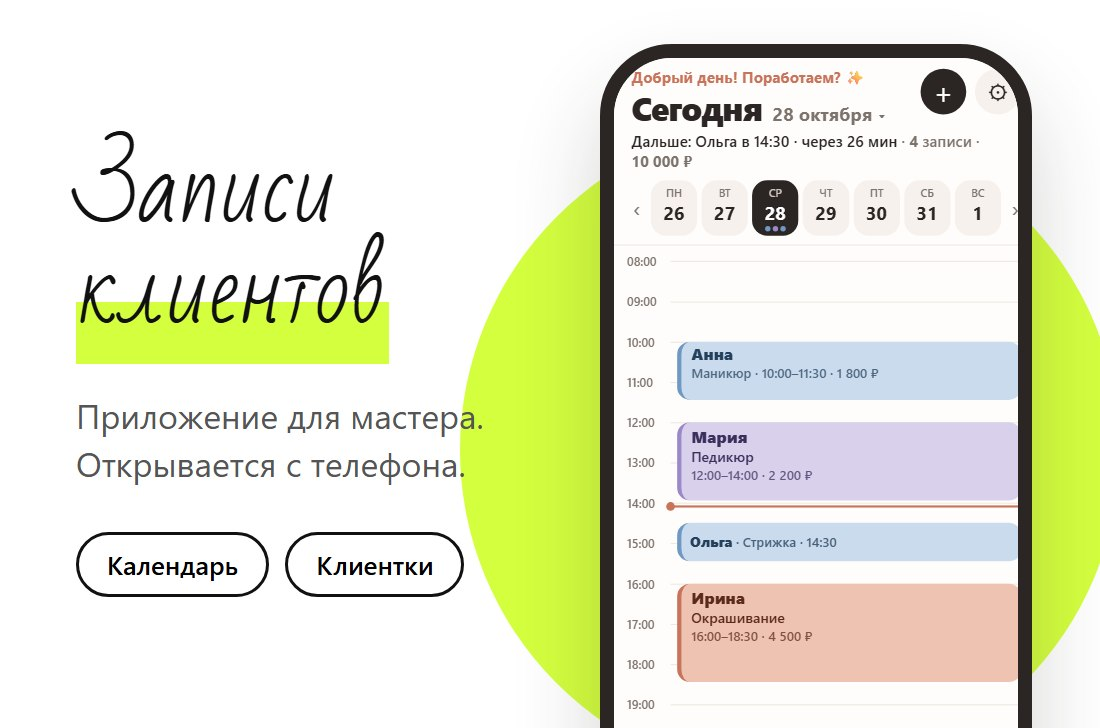
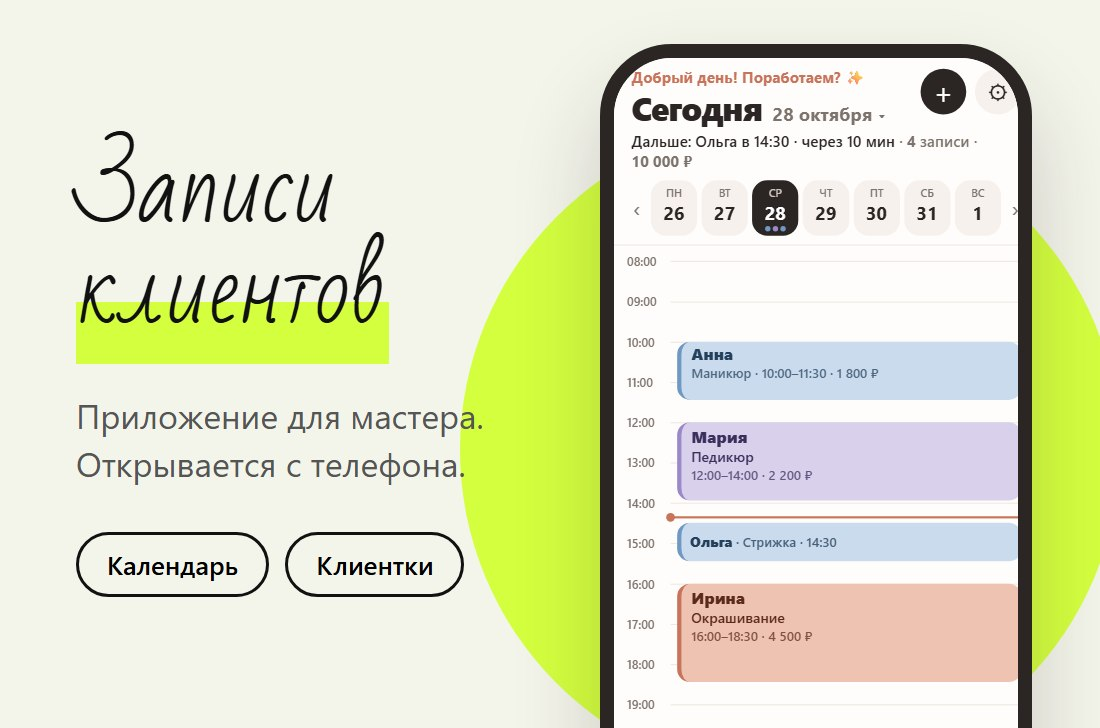
Add files via upload

Changed region(s): [[0.5873, 0.6951, 0.9273, 0.7253], [0.7727, 0.1813, 0.8964, 0.2115]]

diff --git a/index.html b/index.html
@@ -74,8 +74,8 @@ h2{font-family:var(--hand);font-weight:400;font-size:clamp(34px,4.4vw,64px);line
 .tag{display:inline-block;margin:16px 4px 0;font-size:12px;letter-spacing:.2em;text-transform:uppercase;font-weight:600;background:var(--lime);padding:3px 10px;border-radius:999px}
 .work h3{font-size:20px;font-weight:600;margin:10px 4px 2px;line-height:1.25}
 .work a.l{display:inline-flex;align-items:center;min-height:44px;margin:0 4px;font-weight:600;text-decoration:underline;text-decoration-color:var(--lime);text-decoration-thickness:3px;text-underline-offset:5px}
-.works:not(.three){max-width:960px}
-.works.three{grid-template-columns:repeat(3,1fr);max-width:980px}.works.three,.works.three .col{gap:14px}.works.three .work img{border-radius:14px}.works.three .work h3{font-size:14px;margin:6px 2px 0;font-weight:500}
+.works:not(.three){max-width:1400px}
+.works.three{grid-template-columns:repeat(3,1fr);max-width:1400px}.works.three,.works.three .col{gap:14px}.works.three .work img{border-radius:14px}.works.three .work h3{font-size:14px;margin:6px 2px 0;font-weight:500}
 /* спокойно */
 #trust{padding-top:24px;padding-bottom:24px}#trust h2{text-align:center;margin:0 auto 6px;font-size:clamp(30px,3.6vw,46px)}
 .gar{display:grid;grid-template-columns:repeat(3,1fr);gap:14px;margin-top:14px;text-align:center}
@@ -110,6 +110,16 @@ footer{padding:26px var(--pad);font-size:13px;color:var(--soft);display:flex;gap
 a:focus-visible,.btn:focus-visible{outline:3px solid var(--ink);outline-offset:3px;border-radius:8px}
 .btn:focus-visible,.fab:focus-visible{border-radius:999px}
 .srv a:focus-visible,.fab:focus-visible{outline-color:var(--lime)}
+.menu{display:grid;grid-template-columns:1fr 1fr;gap:0 64px;background:#fff;border:2px solid var(--ink);border-radius:30px;padding:36px 40px;max-width:1100px;margin-top:22px}
+.mt{font-family:var(--hand);font-weight:400;font-size:clamp(28px,3vw,38px);line-height:1.1;margin:0 0 18px}
+.mi{margin-bottom:20px}
+.mr{display:flex;align-items:baseline;gap:10px;font-size:18px;font-weight:500}
+.mr b{font-weight:500}
+.mr i{flex:1;min-width:18px;border-bottom:2px dotted rgba(17,17,17,.4);transform:translateY(-5px)}
+.mr span{white-space:nowrap;font-weight:600;background:linear-gradient(transparent 58%,var(--lime) 58%);padding:0 6px}
+.md{font-size:14.5px;color:var(--soft);margin-top:5px;line-height:1.45;max-width:440px}
+.mf{grid-column:1/-1;margin-top:8px}
+@media (max-width:900px){.menu{grid-template-columns:1fr;padding:24px 18px}.mr{font-size:16px;gap:8px}.mt{margin-bottom:12px}.mi{margin-bottom:16px}.md{font-size:13.5px}.mg+.mg{margin-top:12px}}
 @media (max-width:900px){
   nav{display:none}
   .soc a{width:38px;height:38px}
@@ -154,7 +164,7 @@ a:focus-visible,.btn:focus-visible{outline:3px solid var(--ink);outline-offset:3
 }
 </style>
 </head>
-<header><nav><a href="#works">Работы</a><a href="#services">Услуги</a><a href="#how">Как работаю</a></nav>
+<header><nav><a href="#works">Работы</a><a href="#services">Услуги</a></nav>
 <div class="soc">
   <a href="https://t.me/evvalon" aria-label="Telegram" rel="noopener"><svg viewBox="0 0 24 24" width="20" height="20" fill="currentColor" aria-hidden="true"><path d="M9.78 18.65l.28-4.23 7.68-6.92c.34-.31-.07-.46-.52-.19L7.74 13.3 3.64 12c-.88-.25-.89-.86.2-1.3l15.97-6.16c.73-.33 1.43.18 1.15 1.3l-2.72 12.81c-.19.91-.74 1.13-1.5.71L12.6 16.3l-1.99 1.93c-.23.23-.42.42-.83.42z"/></svg></a>
   <a href="https://max.ru/u/f9LHodD0cOLc8vE6ZdTK-qmdp7qmhYqcSUPp0e_dX8KkbMWdPMrzs9gRmVo" aria-label="MAX" rel="noopener"><span>MAX</span></a>
@@ -209,30 +219,26 @@ a:focus-visible,.btn:focus-visible{outline:3px solid var(--ink);outline-offset:3
     </div></div>
   </section>
 
-<section id="trust">
-  <h2>Почему со мной спокойно</h2>
-  <div class="gar"><div>Договор и чек</div><div>Первый экран бесплатно</div><div>Правки входят в цену</div></div>
-</section>
-
 <section id="services" style="background:rgba(255,250,240,.6)">
-      <div class="services">
-    <div class="srv"><h3>Инфографика для карточки</h3><div class="p">от&nbsp;600&nbsp;₽</div><ul><li>обложка от&nbsp;600&nbsp;₽</li><li>слайд от&nbsp;400&nbsp;₽</li><li>5&nbsp;слайдов: 2&nbsp;000&nbsp;₽</li></ul><a class="btn" href="https://t.me/evvalon">Заказать слайды</a></div>
-    <div class="srv light"><h3>Сайт на 1 страницу</h3><div class="p">от&nbsp;5&nbsp;000&nbsp;₽</div><ul><li>подходит для визитки, портфолио и лендинга</li><li>до&nbsp;6&nbsp;блоков</li><li>телефон и компьютер</li><li>квиз или форма: +&nbsp;2&nbsp;000&nbsp;₽</li></ul><a class="btn" href="https://t.me/evvalon">Заказать сайт</a></div>
-    <div class="srv"><h3>Сайт из нескольких страниц</h3><div class="p">от&nbsp;10&nbsp;000&nbsp;₽</div><ul><li>подходит для эксперта или компании с несколькими услугами, студии, школы</li><li>до&nbsp;5&nbsp;страниц, у каждой свои блоки</li><li>телефон и компьютер, публикация и ссылка</li></ul><a class="btn" href="https://t.me/evvalon">Заказать сайт</a></div>
+  <h2>Услуги и цены</h2>
+  <div class="menu">
+    <div class="mg">
+      <h3 class="mt"><span class="hl">Сайты</span></h3>
+      <div class="mi"><div class="mr"><b>Сайт на 1 страницу</b><i></i><span>от&nbsp;5&nbsp;000&nbsp;₽</span></div><p class="md">для визитки, портфолио и лендинга. До&nbsp;6&nbsp;блоков, телефон и компьютер</p></div>
+      <div class="mi"><div class="mr"><b>Квиз или форма на сайте</b><i></i><span>+&nbsp;2&nbsp;000&nbsp;₽</span></div></div>
+      <div class="mi"><div class="mr"><b>Сайт из нескольких страниц</b><i></i><span>от&nbsp;10&nbsp;000&nbsp;₽</span></div><p class="md">для эксперта или компании с несколькими услугами, студии, школы. До&nbsp;5&nbsp;страниц, у каждой свои блоки, публикация и ссылка</p></div>
+    </div>
+    <div class="mg">
+      <h3 class="mt"><span class="hl">Карточки</span></h3>
+      <div class="mi"><div class="mr"><b>Обложка</b><i></i><span>от&nbsp;600&nbsp;₽</span></div></div>
+      <div class="mi"><div class="mr"><b>Слайд</b><i></i><span>от&nbsp;400&nbsp;₽</span></div></div>
+      <div class="mi"><div class="mr"><b>5&nbsp;слайдов</b><i></i><span>2&nbsp;000&nbsp;₽</span></div></div>
+      <h3 class="mt" style="margin-top:26px"><span class="hl">Отдельно</span></h3>
+      <div class="mi"><div class="mr"><b>Магазин, каталог, сложный сайт</b><i></i><span>считаю отдельно</span></div><p class="md">расскажите задачу, предложу решение и срок</p></div>
+    </div>
+    <div class="mf"><a class="btn" href="https://t.me/evvalon">Заказать</a></div>
   </div>
-  <div class="srv-wide"><div><h3>Интернет-магазин, каталог, сложный сайт</h3><p>Считаю отдельно. Расскажите задачу, предложу решение и срок.</p></div><a class="btn" href="https://t.me/evvalon">Обсудить задачу</a></div>
 </section>
-
-<section id="how">
-  <h2>Четыре шага от сообщения до готовой работы</h2>
-  <div class="steps" style="margin-top:30px">
-    <div class="step"><em>1</em><h3>Вы пишете</h3><p>Что продаёте и что нужно</p></div>
-    <div class="step"><em>2</em><h3>Согласуем</h3><p>Состав, срок, цена</p></div>
-    <div class="step"><em>3</em><h3>Показываю</h3><p>Присылаю результат</p></div>
-    <div class="step"><em>4</em><h3>Правки и сдача</h3><p>1 круг включён</p></div>
-  </div>
-</section>
-
 <div class="contact" id="contact">
   <h2>Напишите «макет» или «слайд»: первый шаг бесплатно</h2>
     <a class="btn" href="https://t.me/evvalon">Написать в Telegram</a>
